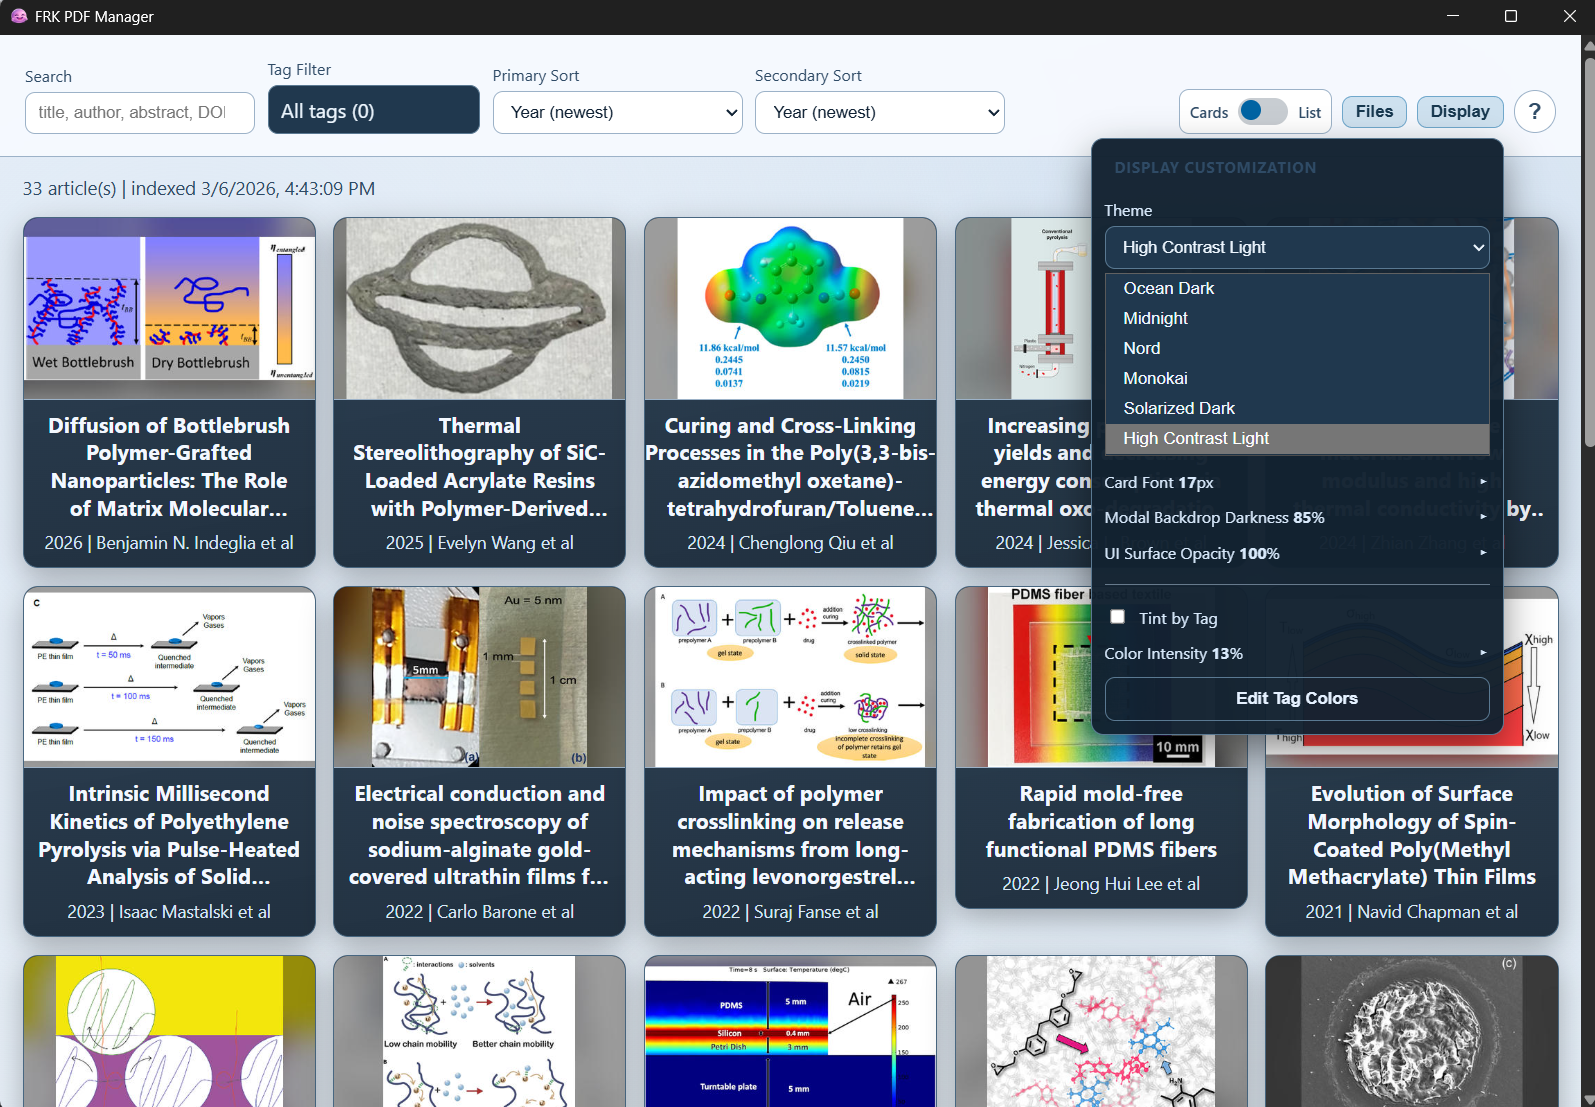
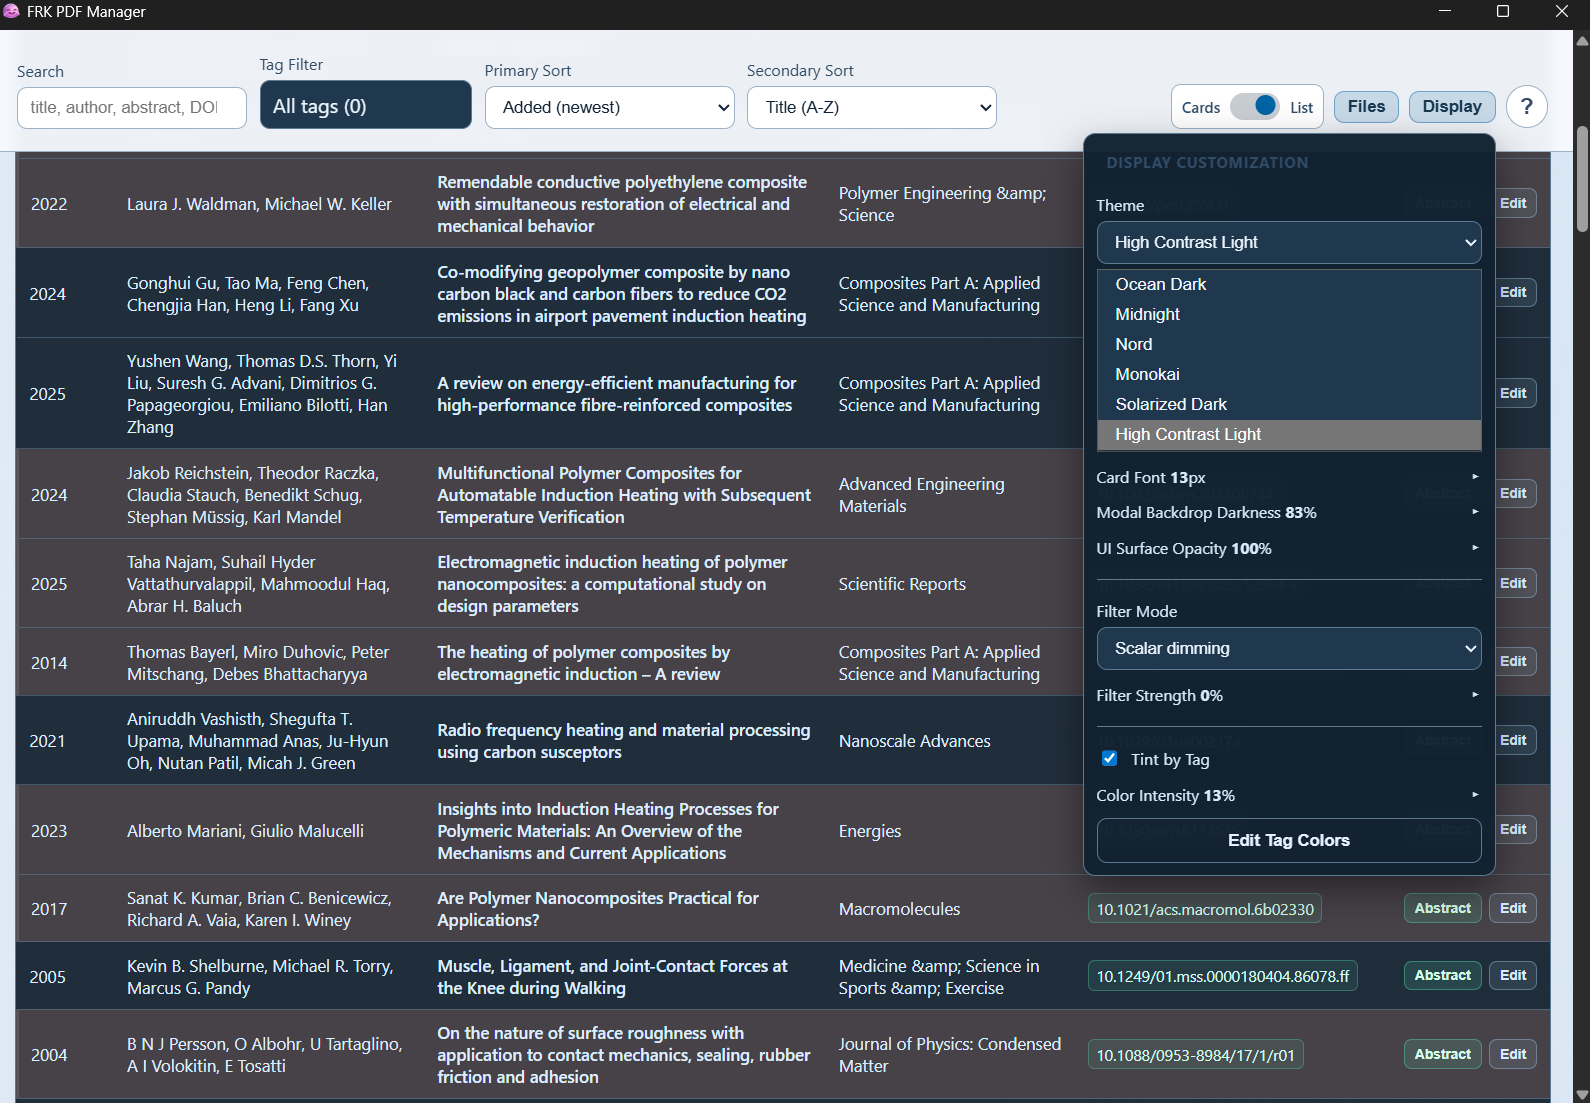
cleaned readme for pre-release

diff --git a/README.md b/README.md
@@ -8,17 +8,25 @@ The PDFs still open in the default viewer, but the browser facilitates searches 
 
 ## front page
 
-Drag-and-drop PDFs onto the open application window. The PDFs will be copied to the `Articles/` folder at the project root and displayed as a card in the application
+Drag-and-drop PDFs onto the open application window top copy automatically into the `Articles/` folder at the project root and display them as cards in the application.
 
 ![front page](readme-images/hero.png)
+
+ - primary and secondary sort based on article content (title, publication date, etc.) or metadata (recently added, last opened, etc.)
+ - toggle between the visual 'cards' UI or or the traditional simplified 'list' view. 
 
 ---
 
 ## metadata editing
 
+Fully automated parsing from PDFs of journal articles is unreliable for even standard metadata, much less the extraction and sizing of unique/appealing thumbnails.  The metadata editor here attempts to streamline the process of finding, managing, and editing metadata and thumbnail images.
+
 ![metadata](readme-images/metadata.png)
 
- - use 'fetch' to automatically parse PDF for DOI and fill metadata found on API request (internet connection required)
+ - use 'fetch' to automatically parse PDF for DOI and fill metadata found on API request
+   - my experience suggests a reliability of about 9 of 10 'modern' articles and perhaps 3 of 10 'dated' articles 
+   - requires internet connection
+   - abstracts are often excluded from the API extraction, but the artifacts often associated with copying PDF content are addressed through some scripting through both heuristic and NLP solutions (see abstract preview below)
 
  - take a custom thumbnail with Windows snip tool (windows + shift + S) and click "Paste from Clipboard"
 
@@ -28,9 +36,11 @@ Drag-and-drop PDFs onto the open application window. The PDFs will be copied to 
 
 ## abstract preview
 
+ Abstract text added to the metadata modal, whether parsed from PDF or manually pasted, is automatically processed and segmented to a more digestable view here.  This is intended to be paired with the `view abstract preview` hotkey to streamline scanning of articles' tenor across a library.
+
 ![example of modal which appears of the abstract when abstract button is selected](readme-images/abstract_modal.png)
 
- - abstract text content added to the metadata modal, whether parsed from PDF or manually pasted, are automatically processed and segmented to a cleaner, more digestable view here
+ - if abstract appears unexpected formatted, try playing with the `abstract partitioning strength` slider in the `Files` menu, as well as the `Clean` button in the metadata modal 
 
  - if metadata was 'fetched' in the metadata modal, hyperlinked reference DOIs automatically populate here
 
@@ -38,9 +48,12 @@ Drag-and-drop PDFs onto the open application window. The PDFs will be copied to 
 
 ## tags and filters
 
+Similarly, the article tags from the metadata modal can be filtered to view project-, concept-, or technique-specific collections.
+
 ![tags and filters](readme-images/filters.png)
 
 - select from tags assigned to articles in their metadata modal
+  - chips components offer tab auto-completion for existing tags
 
 - choose filter mode (show matches with 'any', 'all', or 'none' of the selected tags) 
 
@@ -48,22 +61,27 @@ Drag-and-drop PDFs onto the open application window. The PDFs will be copied to 
 
 ## shortcuts
 
+Customize various mouse/keyboard hotkeys to, for instance open the article location in the file system or copy BibTeX citation to the clipboard
+
 ![shortcuts](readme-images/shortcuts.png)
 
 - click event modifiers on article cards
- - open the article in the default PDF viewer
- - open the metadata editor modal
- - open the abstract modal
- - open the article file location on device
- - copy the BibTeX-formatted citation information to the clipboard (LaTeX bibliography file formatting)
+   - open the article in the default PDF viewer
+   - open the metadata editor modal
+   - open the abstract modal
+   - open the article file location on device
+   - copy the BibTeX-formatted citation information to the clipboard (LaTeX bibliography file formatting)
 
 - keyboard events
   - paste thumbnail from clipboard (while anywhere in the metadata modal OR to the card under the cursor in the card view)
   - save and exit metadata modal
+  - move between articles or modals
   
 ---
 
 ## display and themes
+
+Various color themes
 
 ![themes](readme-images/themes.png)
 
@@ -72,7 +90,51 @@ Drag-and-drop PDFs onto the open application window. The PDFs will be copied to 
    - card size
    - modal opacity
    - modal focus (background darkening)
- - simple file view from the front page toggle (Card <-> List)
+ 
+ - to mitigate eye strain in low-light environments, also try to add a filter from the `filter modes` options
+ 
+---
+
+# Installation
+
+Download the latest installer on the GitHub repo releases page [here](https://github.com/frkatona/journal-article-library-webGUI/releases)
+
+# Development details
+
+Built with [Tauri v2](https://tauri.app/) (Rust backend + JS frontend).  The windows installer is available in the releases tab.
+
+- edits are saved as override files in `library_data/overrides/` and survive reindexing
+
+## Dev build
+
+### Prerequisites
+
+- [Rust](https://rustup.rs/) (stable toolchain)
+- [Node.js](https://nodejs.org/) (v18+)
+
+### Build from Source
+
+```powershell
+# Clone or download this repository, then from the repo root:
+
+# 1. Install the Tauri CLI
+npm install
+
+# 2. Build the release binary
+npx tauri build
+```
+
+The installer/executable will be output to `src-tauri/target/release/bundle/`.
+
+### Run in Development Mode
+
+```powershell
+npx tauri dev
+```
+
+This compiles the Rust backend and opens the app window with hot-reload for frontend changes.
+
+# Misc. notes
 
 ### Night Filter Techniques (Code Snippets)
 
@@ -153,47 +215,6 @@ mapB = shape;
 These functions are sampled into `feComponentTransfer` lookup tables, with optional color-space pre/post transforms for luminance remapping.
 
 ---
-
-# Installation
-
-Download the latest installer on the GitHub repo releases page [here](https://github.com/frkatona/journal-article-library-webGUI/releases)
-
-# Development details
-
-Built with [Tauri v2](https://tauri.app/) (Rust backend + JS frontend).  The windows installer is available in the releases tab.
-
-- edits are saved as override files in `library_data/overrides/` and survive reindexing
-
-## Dev build
-
-### Prerequisites
-
-- [Rust](https://rustup.rs/) (stable toolchain)
-- [Node.js](https://nodejs.org/) (v18+)
-
-### Build from Source
-
-```powershell
-# Clone or download this repository, then from the repo root:
-
-# 1. Install the Tauri CLI
-npm install
-
-# 2. Build the release binary
-npx tauri build
-```
-
-The installer/executable will be output to `src-tauri/target/release/bundle/`.
-
-### Run in Development Mode
-
-```powershell
-npx tauri dev
-```
-
-This compiles the Rust backend and opens the app window with hot-reload for frontend changes.
-
-# Misc. notes
 
 ### Pasted Abstract Processing
 
@@ -293,8 +314,10 @@ The Rust backend exposes these commands to the frontend:
 | `open_pdf` | Open a PDF in the system default viewer |
 | `open_file_location` | Open file location in system file explorer |
 | `open_articles_folder` | Open the Articles folder |
+| `open_external_url` | Open an external `http`/`https` URL |
 | `get_thumbnail_url` | Load a thumbnail as a base64 data URL |
 | `get_root_dir` | Get the application root directory |
+| `get_storage_report` | Summarize app-folder and metadata storage usage |
 | `import_pdf` | Import one PDF payload |
 | `import_pdfs_from_paths` | Import PDFs from selected paths |
 | `fetch_doi_metadata` | Fetch metadata from Crossref by DOI |
@@ -304,6 +327,171 @@ The Rust backend exposes these commands to the frontend:
 | `get_backups` | List backup slots and timestamps |
 | `restore_backup` | Restore a selected backup file |
 | `get_crash_log` | Read backend crash log contents |
+
+#### Abridged Rust Command Flow
+
+Generalized pseudocode for the Tauri commands above:
+
+```rust
+#[tauri::command]
+fn get_articles(...) -> Result<ArticlesResponse, String> {
+    let index = load_index_from_state(...);
+    let rows = filter_by_query_tags_and_completeness(index.articles, ...);
+    Ok(paginate_with_index_metadata(rows, index.generated_at, index.thumbnail_strategy, ...))
+}
+
+#[tauri::command]
+fn get_tags(...) -> Result<TagsResponse, String> {
+    let index = load_index_from_state(...);
+    let counts = count_normalized_tags(index.articles);
+    Ok(sort_tags_by_usage_then_name(counts))
+}
+
+#[tauri::command]
+fn reindex(...) -> Result<ReindexResponse, String> {
+    let strategy = validate_requested_strategy(...);
+    let payload = index_articles(&mut state, strategy, fast, long_parse);
+    Ok(build_reindex_summary(payload))
+}
+
+#[tauri::command]
+fn save_metadata(article_id, payload) -> Result<MutationResponse, String> {
+    let mut override_json = load_override(article_id);
+    apply_payload_into_override(&mut override_json, payload);
+    save_override(article_id, override_json);
+    refresh_article_metadata_thumbnail_and_search_text(article_id);
+    write_index_json();
+    Ok(updated_article_response(article_id))
+}
+
+#[tauri::command]
+fn upload_thumbnail(article_id, data) -> Result<MutationResponse, String> {
+    let image = decode_base64_image(data)?;
+    save_manual_thumbnail(article_id, image);
+    write_manual_thumbnail_override(article_id);
+    refresh_article_thumbnail_and_search_text(article_id);
+    write_index_json();
+    Ok(updated_article_response(article_id))
+}
+
+#[tauri::command]
+fn remove_article(article_id) -> Result<bool, String> {
+    delete_pdf_manual_thumb_auto_thumb_and_override(article_id);
+    remove_article_from_index(article_id);
+    write_index_json();
+    Ok(true)
+}
+
+#[tauri::command]
+fn open_pdf(relpath) -> Result<(), String> {
+    let full_path = root_dir.join(relpath);
+    stamp_last_opened_into_override_and_index(full_path);
+    opener::open(full_path)?;
+    Ok(())
+}
+
+#[tauri::command]
+fn open_file_location(relpath) -> Result<(), String> {
+    let full_path = root_dir.join(relpath);
+    if cfg!(windows) { spawn_explorer_select(full_path)?; }
+    else { opener::open(parent_folder(full_path))?; }
+    Ok(())
+}
+
+#[tauri::command]
+fn open_articles_folder(...) -> Result<(), String> {
+    opener::open(normalize_windows_prefix(articles_dir))?;
+    Ok(())
+}
+
+#[tauri::command]
+fn open_external_url(url) -> Result<(), String> {
+    ensure_http_or_https(url)?;
+    opener::open(url)?;
+    Ok(())
+}
+
+#[tauri::command]
+fn get_thumbnail_url(rel_path) -> Result<String, String> {
+    let bytes = fs::read(root_dir.join(rel_path))?;
+    Ok(make_base64_data_url(bytes))
+}
+
+#[tauri::command]
+fn get_root_dir(...) -> Result<String, String> {
+    Ok(root_dir_as_string())
+}
+
+#[tauri::command]
+fn get_storage_report(...) -> Result<StorageReportResponse, String> {
+    let index = load_index_from_state(...);
+    let folders = scan_immediate_subfolders_recursively(root_dir)?;
+    let metadata = summarize_index_override_backup_and_field_sizes(index, data_dir, overrides_dir, index_path)?;
+    Ok(StorageReportResponse { root_dir, folders, metadata, ... })
+}
+
+#[tauri::command]
+fn import_pdf(filename, data) -> Result<MutationResponse, String> {
+    let pdf_path = write_unique_pdf_to_articles(filename, decode_base64(data)?);
+    let article = process_single_pdf(pdf_path, strategy, fast_parse = true, long_parse = false)?;
+    merge_article_into_index(article);
+    write_index_json();
+    Ok(MutationResponse { ok: true, article })
+}
+
+#[tauri::command]
+async fn import_pdfs_from_paths(paths) -> Result<Vec<MutationResponse>, String> {
+    let copied_paths = copy_paths_into_articles_with_deduping(paths)?;
+    let articles = process_paths_in_parallel_when_safe(copied_paths, strategy)?;
+    merge_articles_into_index(articles);
+    write_index_json();
+    Ok(as_mutation_responses(articles))
+}
+
+#[tauri::command]
+async fn fetch_doi_metadata(doi) -> Result<Metadata, String> {
+    let json = crossref_client().get(format!(".../works/{doi}")).send().await?.json().await?;
+    Ok(extract_title_authors_year_journal_pages_abstract_and_ref_dois(json))
+}
+
+#[tauri::command]
+fn get_article_text_front(article_id) -> Result<String, String> {
+    let pdf_path = article_pdf_path(article_id)?;
+    let text = pdf_extract::extract_text(pdf_path)?;
+    Ok(first_n_chars(text, 10_000))
+}
+
+#[tauri::command]
+fn get_article_text_back(article_id) -> Result<String, String> {
+    let pdf_path = article_pdf_path(article_id)?;
+    let text = pdf_extract::extract_text(pdf_path)?;
+    Ok(last_n_chars(text, 15_000))
+}
+
+#[tauri::command]
+fn create_backup(...) -> Result<bool, String> {
+    rotate_index_backup1_to_backup2_if_present();
+    copy_index_json_to_backup1()?;
+    Ok(true)
+}
+
+#[tauri::command]
+fn get_backups(...) -> Result<BackupsResponse, String> {
+    Ok(read_backup_slots_and_modified_timestamps(data_dir))
+}
+
+#[tauri::command]
+fn restore_backup(backup_name) -> Result<bool, String> {
+    copy_selected_backup_over_index_json(backup_name)?;
+    clear_cached_index_in_memory();
+    Ok(true)
+}
+
+#[tauri::command]
+fn get_crash_log(...) -> String {
+    fs::read_to_string(data_dir.join("crash.log")).unwrap_or_else(|_| "No crash log found.".into())
+}
+```
 
 ### Key Dependencies
 

diff --git a/to-do.md b/to-do.md
@@ -1,7 +1,5 @@
 ### immediate (bug fixes, small features)
 
-
-
 - [ ] 'niche' filters not hiding properly
   - [ ] fix niche chips preventing autofill elsewhere and appearing with strange characters in the niche field
   - [x] just putting in 'experimental' for now
